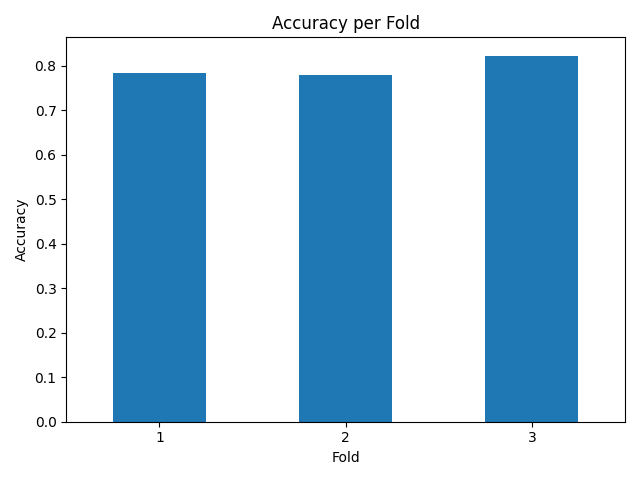
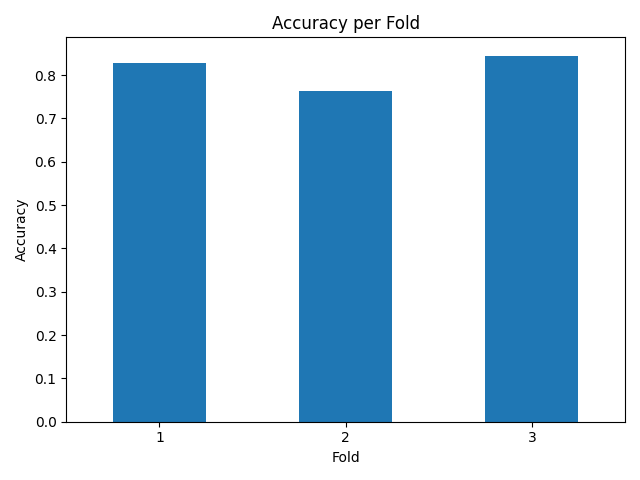
Task 2 Updated

diff --git a/Task 2/TASK2AdvAI.py b/Task 2/TASK2AdvAI.py
@@ -22,9 +22,9 @@ from tensorflow.keras.preprocessing.image import ImageDataGenerator
 DATASET_PATH = Path(kagglehub.dataset_download("muhammad0subhan/fruit-and-vegetable-disease-healthy-vs-rotten"))
 IMG_HEIGHT = 224
 IMG_WIDTH = 224
-BATCH_SIZE = 64
-EPOCHS = 14
-N_FOLDS = 3
+BATCH_SIZE = 32
+EPOCHS = 9
+N_FOLDS = 5
 RANDOM_SEED = 42
 
 GRADE_THRESHOLDS = {
@@ -92,10 +92,6 @@ def build_data_generators(augment: bool = True) -> ImageDataGenerator:
             vertical_flip=True,
         )
     else:
-<<<<<<< HEAD
-=======
-
->>>>>>> 79d4f0fe7ca39e5fc4e251f86e7b7f0d6c61ed8c
         return ImageDataGenerator(
             rescale=1./255
         )
@@ -198,7 +194,7 @@ def train_with_kfold(df: pd.DataFrame, num_classes: int, model_type: str = "cnn"
 
         early_stop = callbacks.EarlyStopping(patience=5, restore_best_weights=True)
         checkpoint = callbacks.ModelCheckpoint(
-            f"models/fold_{fold}.keras", save_best_only=True, monitor="val_loss"
+            f"/home/ajnak/models/fold_{fold}.keras", save_best_only=True, monitor="val_loss"
         )
 
         history = model.fit(
@@ -377,7 +373,7 @@ def update_inventory(product_id: str, grade: str, quantity: int) -> dict:
     return payload
 
 
-def save_model(model: tf.keras.Model, path: str = "models/best_model.keras") -> None:
+def save_model(model: tf.keras.Model, path: str = "/home/ajnak/models/best_model.keras") -> None:
     # Save trained model to disk
     print("debug statement - save_model")
     os.makedirs("models", exist_ok=True)
@@ -385,7 +381,7 @@ def save_model(model: tf.keras.Model, path: str = "models/best_model.keras") -> 
     print(f"[INFO] Model saved to {path}")
 
 
-def load_model(path: str = "models/best_model.keras") -> tf.keras.Model:
+def load_model(path: str = "/home/ajnak/models/best_model.keras") -> tf.keras.Model:
     # Load and return a saved model
     print("debug statement - load_model")
     model = tf.keras.models.load_model(path)
@@ -415,7 +411,16 @@ def main():
     print("\n[INFO] ResNet50 Summary:")
     print(resnet_summary)
 
-    # TODO: load best model, evaluate on test set, run sample grading, save model
+    best_model = load_model("models/fold_2.keras")
+
+    test_gen = build_data_generators(augment=False)
+    test_data = test_gen.flow_from_dataframe(
+        test_df, x_col="filepath", y_col="condition",
+        target_size=(IMG_HEIGHT, IMG_WIDTH), batch_size=BATCH_SIZE, class_mode="categorical"
+    )
+
+    eval_results = evaluate_model(best_model, test_data)
+    save_model(best_model)
     print("[INFO] Pipeline complete.")
 
 
